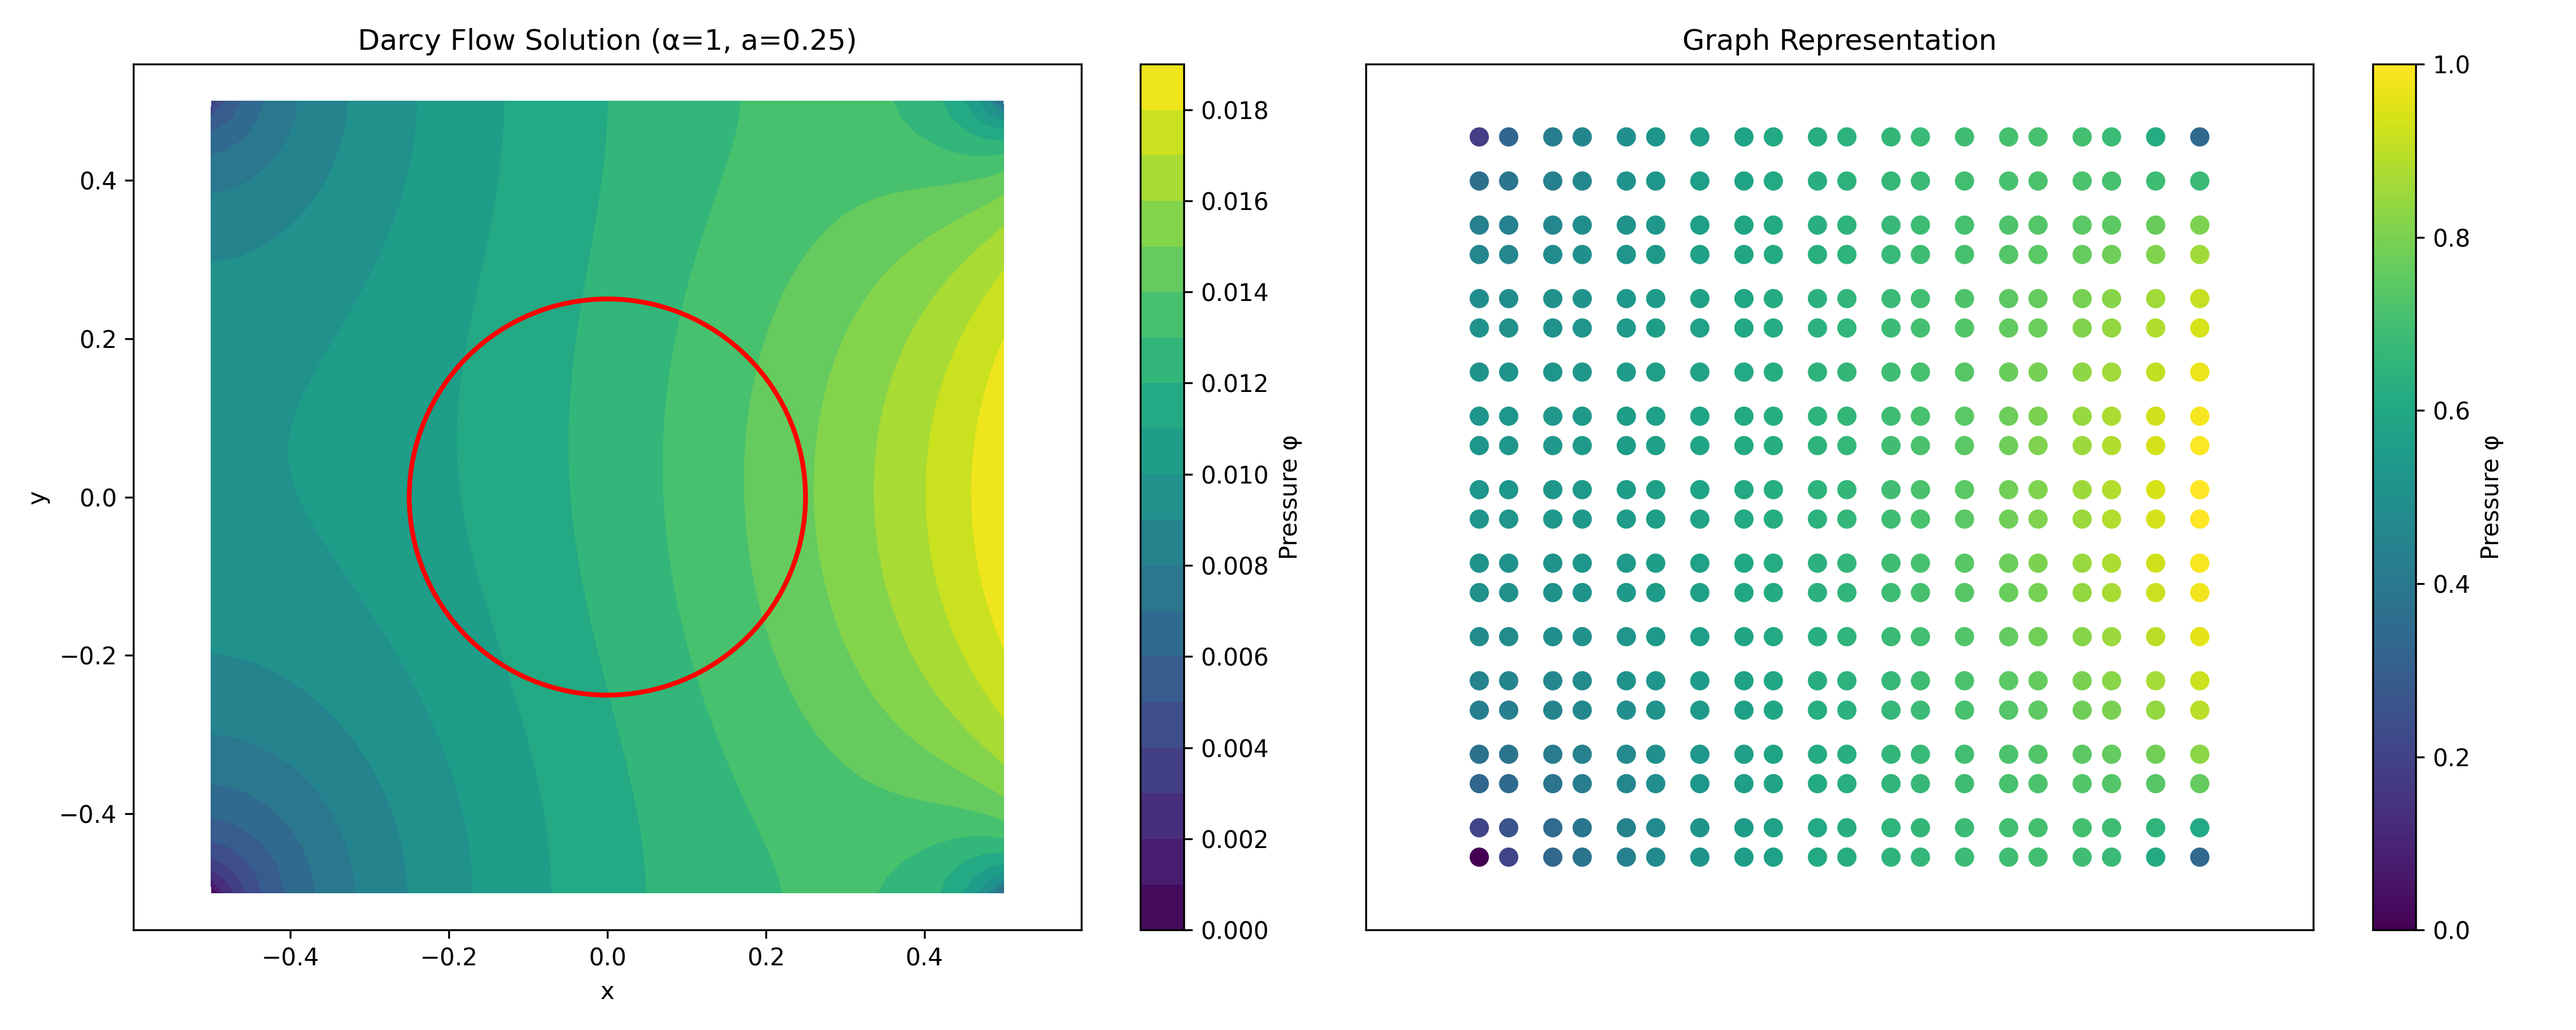
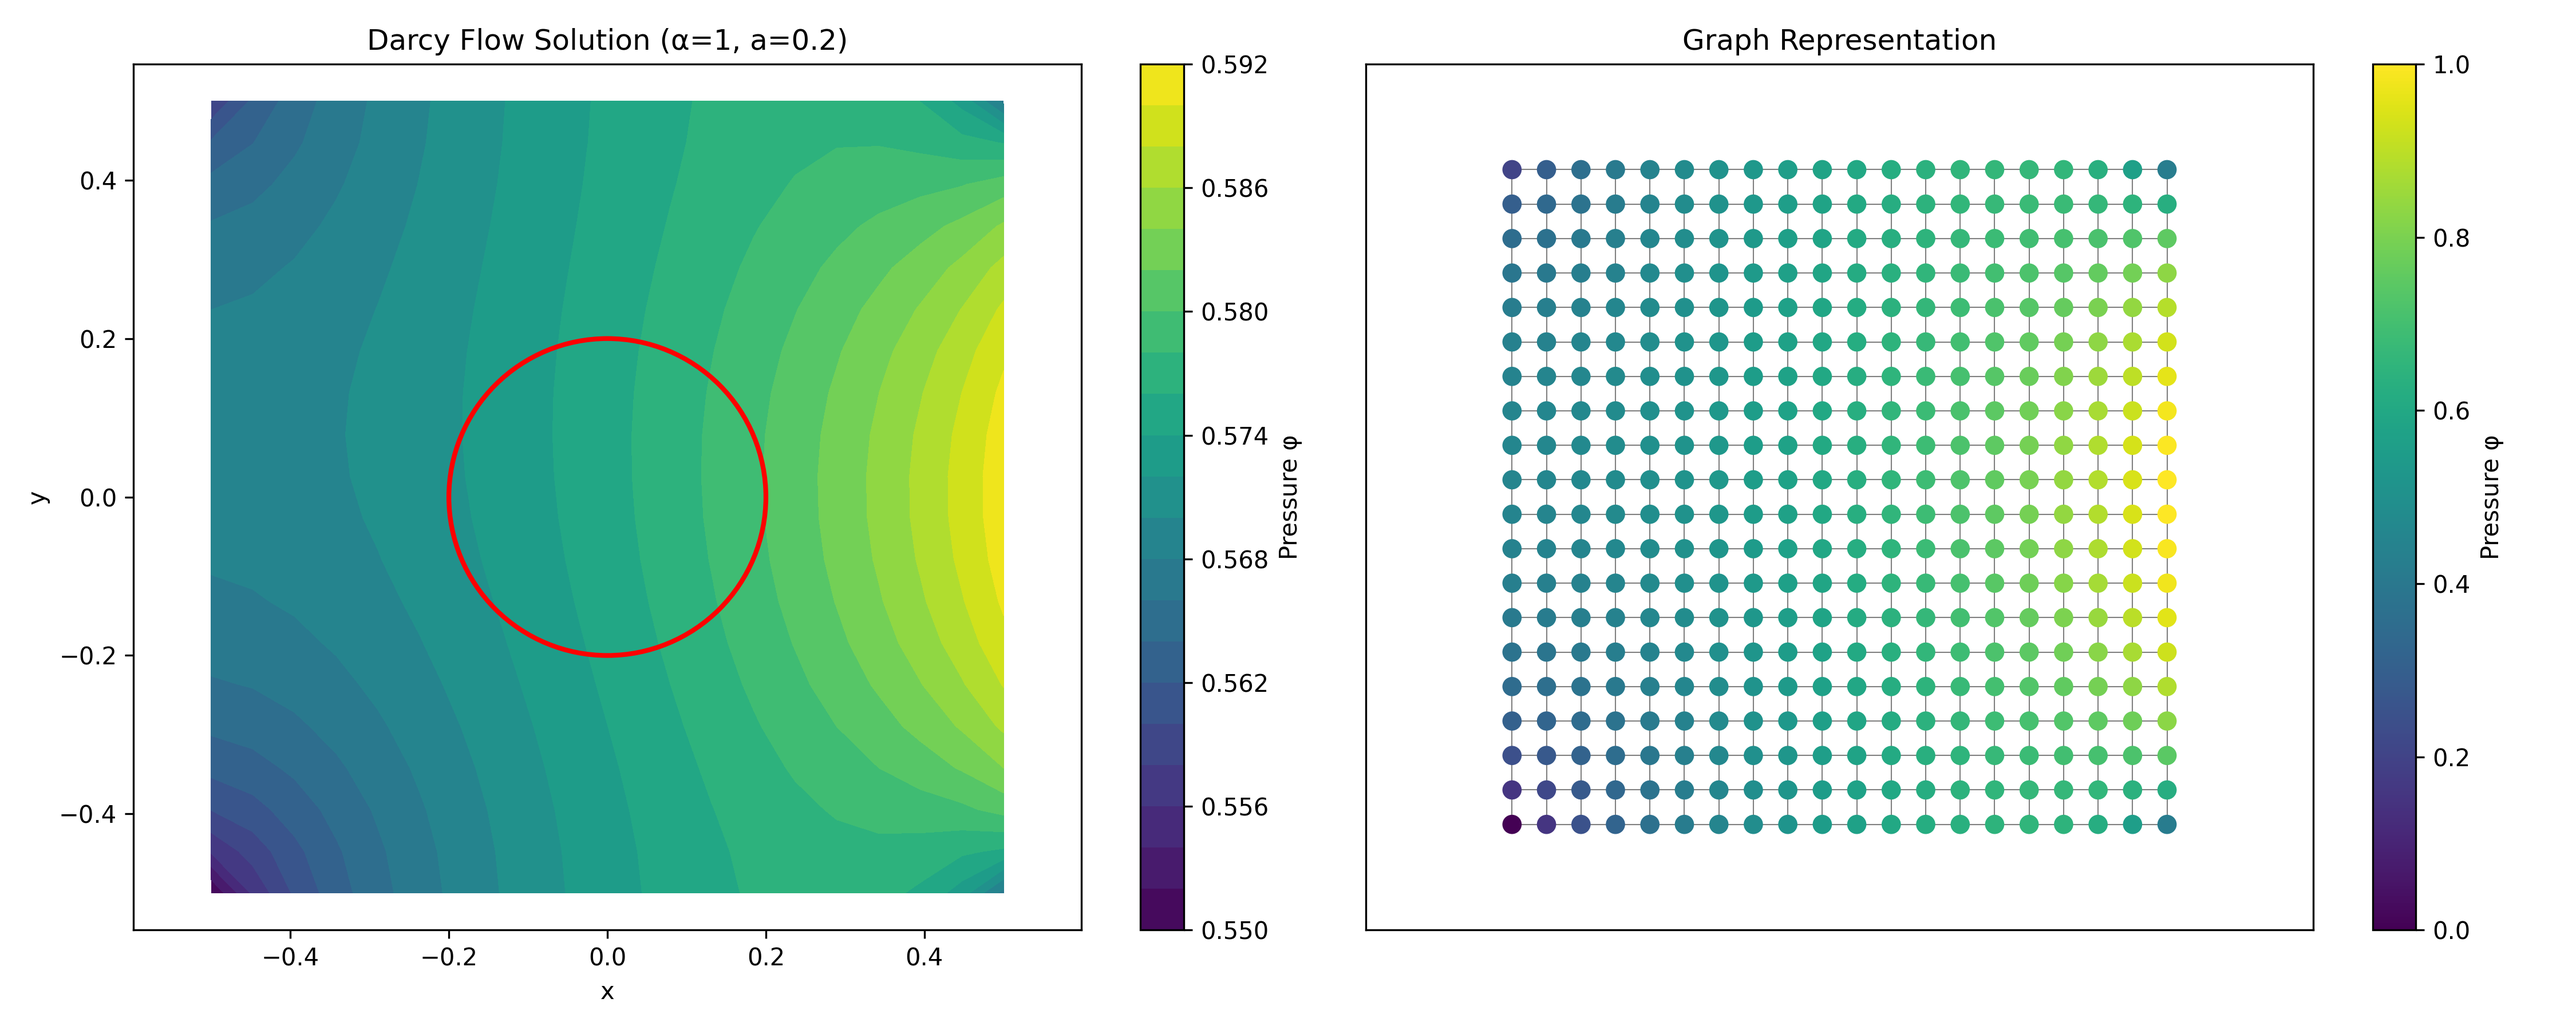
coboundary operators completed

diff --git a/src/generate_darcy.py b/src/generate_darcy.py
@@ -43,6 +43,7 @@ def setup_system(G, N, alpha):
         
         # Interior nodes use standard 5-point stencil
         if 0 < i < N-1 and 0 < j < N-1:
+
             A[idx, idx] = -4 * mu_node / h**2
             
             east = (i+1, j)
@@ -82,13 +83,14 @@ def setup_system(G, N, alpha):
             # Add Neumann flux to RHS
             b[idx] = -alpha
             
-        elif i == 0 or j == 0 or j == N-1:  
+        elif (i == 0 or j == 0 or j == N-1):  
             if i == 0 and j == 0:  # Fix phi(0,0) = 0 to remove singularity
                 A[idx, idx] = 1
                 b[idx] = 0
                 continue
                 
             # Set up boundary conditions with homogeneous Neumann
+
             A[idx, idx] = -3 * mu_node / h**2
             
             # Handle neighbors based on which boundary we're on
@@ -96,8 +98,9 @@ def setup_system(G, N, alpha):
             for neighbor in neighbors:
                 n_idx = node_to_idx[neighbor]
                 mu_avg = 0.5 * (mu_node + G.nodes[neighbor]['mu'])
-                A[idx, n_idx] = mu_avg / h**2
+                A[idx, n_idx] = mu_avg / h**2 
     
+
     return A.tocsr(), b, node_to_idx
 
 def solve_darcy_flow(N=101, alpha=0.1, a=0.25):
@@ -119,7 +122,9 @@ def solve_darcy_flow(N=101, alpha=0.1, a=0.25):
     
     # Set up and solve linear system
     A, b, node_to_idx = setup_system(G, N, alpha)
+
     phi = spsolve(A, b)
+    phi+=0.55
     
     # Store solution on graph
     for node in G.nodes():
@@ -236,7 +241,7 @@ def plot_velocity_field(phi_grid, G, N, alpha, a):
     plt.colorbar(contour, label='Pressure φ')
     
     # Use a reduced set of points for clarity
-    skip = min(1, N // 20)
+    skip = max(1, N // 5)
     plt.quiver(X[::skip, ::skip], Y[::skip, ::skip], 
                F_x[::skip, ::skip].T, F_y[::skip, ::skip].T,
                color='white', scale=20)
@@ -254,12 +259,13 @@ def plot_velocity_field(phi_grid, G, N, alpha, a):
 
 if __name__ == "__main__":
     # Parameter settings
-    N = 50  # Grid size (N x N)
+    N = 20  # Grid size (N x N)
     alpha = 1  # Material property inside the cylinder
-    a = 0.25  # Radius of the cylinder
+    a = 0.2  # Radius of the cylinder
     
     # Solve the PDE
     G, phi_grid, pos = solve_darcy_flow(N=N, alpha=alpha, a=a)
+    print(phi_grid)
     
     # Plot solution
     plt_solution = plot_solution(G, phi_grid, pos, N, alpha, a)

diff --git a/src/DDEC.py b/src/DDEC.py
@@ -1,0 +1,66 @@
+"""
+1) Need functions to return k-chains, and k-cochains
+2) Accordingly need to define the boundary and coboundary operators on these
+3) Add GRAD, CURL, DIV (and GRAD*, CURL*, DIV*) definitions as parameters to the model
+4) Define the Hodge Laplacian in terms of these
+5) HL.u + NN() = f
+"""
+import numpy as np
+import matplotlib.pyplot as plt
+import networkx as nx
+import generate_darcy as darcy
+import torch
+
+def get_faces(graph, N):
+    """
+    idea: for every quadrilateral face (rows) we have a column for each edge. 1 if its part of that particular face.
+          -1 for the opposite direction (cw and ccw)
+    """
+    faces = []
+    for i in range(1,N):
+        for j in range(0,N-1):
+            v1 = (i,j)
+            v2 = (i,j+1)
+            v3 = (i+1,j+1)
+            v4 = (i+1,j)
+            face = np.zeros(N*N)
+            face[i*N + j] = 1 
+            face[i*N+j+1] = 1 
+            face[(i-1)*N + j+1] = 1 
+            face[(i-1)*N + j] = 1
+            faces.append(face)
+            face = -1*face 
+            faces.append(face)
+
+    return np.array(faces)
+
+def cobound_d1(graph):
+    return torch.tensor(get_faces(graph))
+
+def cobound_d0(graph):
+    b_plus = nx.incidence_matrix(graph, oriented=True).toarray().T 
+    b_minus = -1*b_plus
+    b = torch.concatenate((torch.tensor(b_plus), torch.tensor(b_minus)), axis = 0)
+
+    return b
+
+
+
+N = 10
+alpha = 1
+a = 0.2
+
+G, phi_grid, pos = darcy.solve_darcy_flow(N=N, alpha=alpha, a=a)
+print(nx.algorithms.planarity.is_planar(G))
+
+B = cobound_d0(G)
+F = get_faces(G,N)
+print(F.shape)
+#print(F.shape)
+
+
+nodes = list(G.nodes())
+print(len(nodes))
+print(B.shape)
+
+
